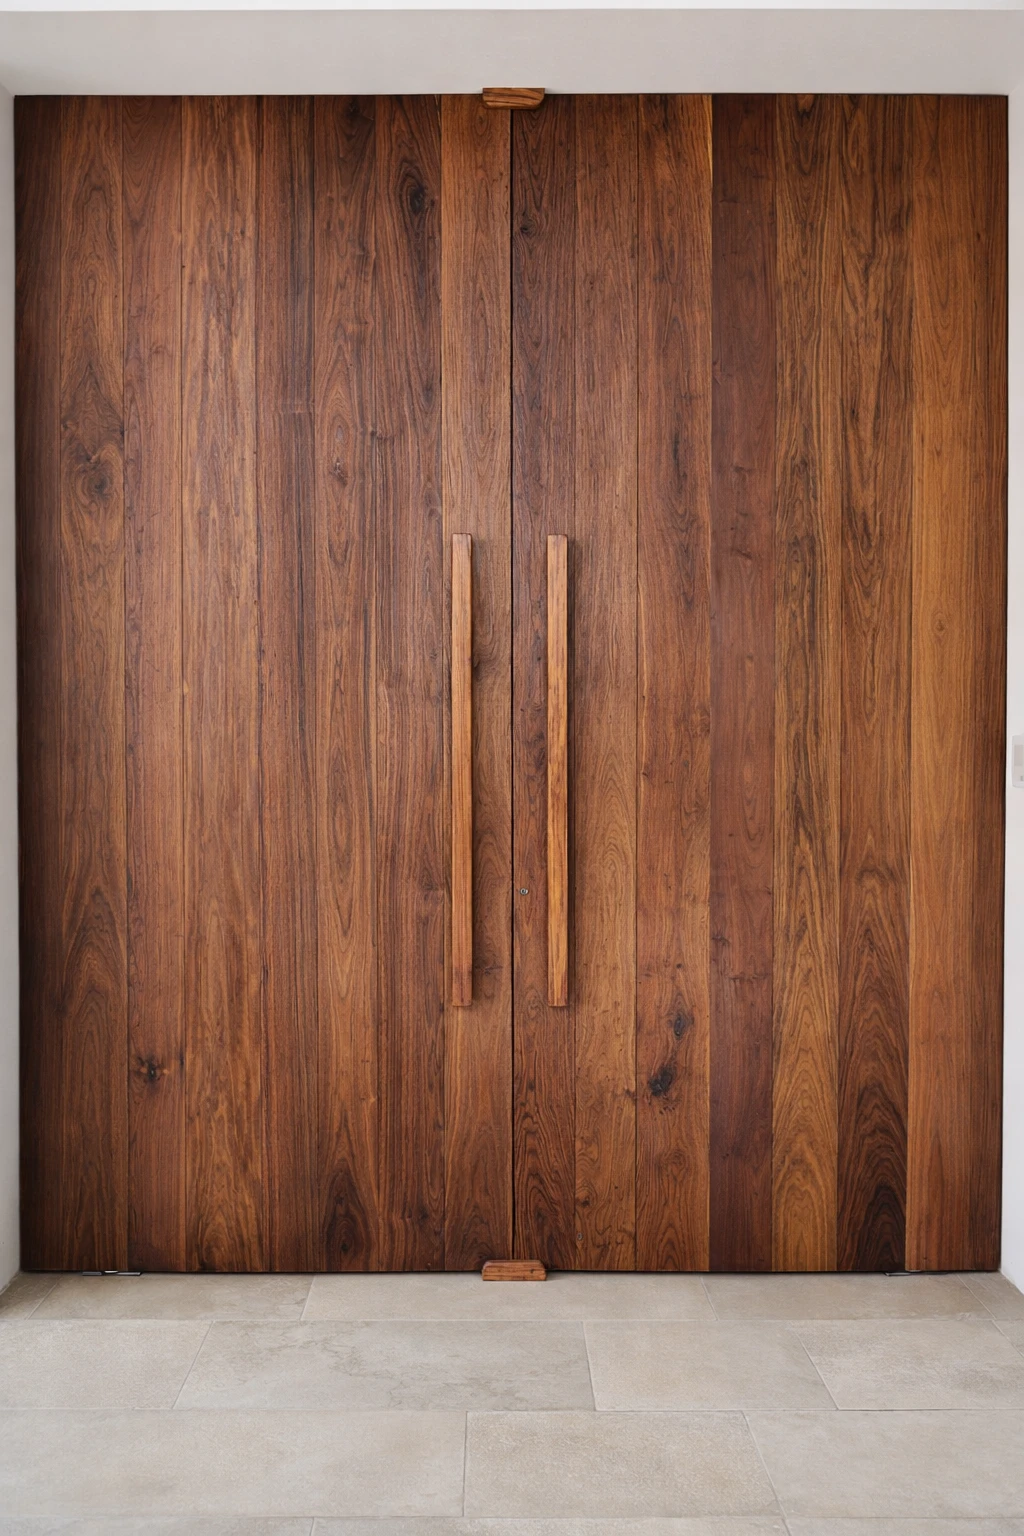
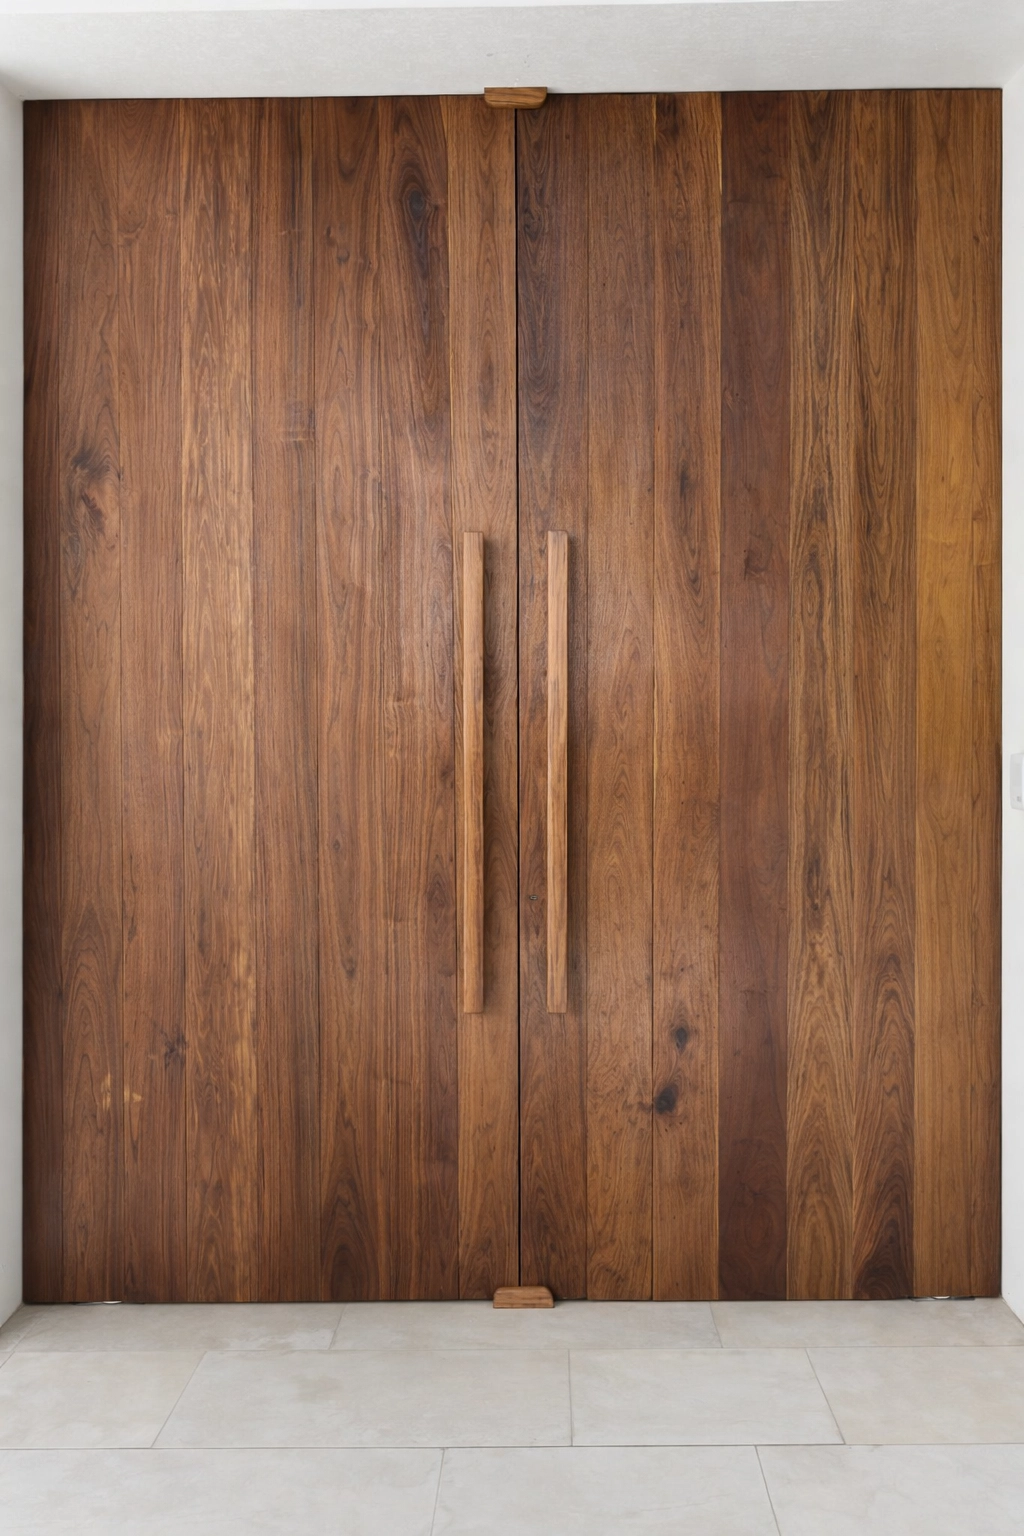
Adjunté imágenes restantes galeria

diff --git a/src/App.jsx b/src/App.jsx
@@ -87,7 +87,11 @@ export default function App() {
       images: [
         "/images/projects/cocinas/cocina1.webp",
         "/images/projects/cocinas/cocina2.webp",
-        "/images/placeholder.jpg",
+        "/images/projects/cocinas/cocina3.webp",
+        "/images/projects/cocinas/cocina4.webp",
+        "/images/projects/cocinas/cocina5.webp",
+        "/images/projects/cocinas/cocina6.webp",
+        "/images/projects/cocinas/cocina7.webp",
       ],
     },
 
@@ -97,8 +101,8 @@ export default function App() {
         "Estructuras exteriores modernas combinando diseño y resistencia.",
       images: [
         "/images/projects/pergolas/pergola1.webp",
-        "/images/placeholder.jpg",
-        "/images/placeholder.jpg",
+        "/images/projects/pergolas/pergola2.webp",
+        "/images/projects/pergolas/pergola3.webp",
       ],
     },
 
@@ -109,7 +113,7 @@ export default function App() {
       images: [
         "/images/projects/puertas/puerta1.webp",
         "/images/projects/puertas/puerta2.webp",
-        "/images/placeholder.jpg",
+        "/images/projects/puertas/puerta3.webp",
       ],
     },
 
@@ -119,8 +123,7 @@ export default function App() {
         "Diseños modernos en herrería y carpintería para espacios únicos.",
       images: [
         "/images/projects/parrillas/parrilla1.webp",
-        "/images/placeholder.jpg",
-        "/images/placeholder.jpg",
+        "/images/projects/parrillas/parrilla2.webp",
       ],
     },
 
@@ -130,8 +133,10 @@ export default function App() {
         "Proyectos personalizados realizados según las necesidades de cada cliente.",
       images: [
         "/images/projects/otros/mesas1.webp",
-        "/images/placeholder.jpg",
-        "/images/placeholder.jpg",
+        "/images/projects/otros/escalera.webp",
+        "/images/projects/otros/escalera1.webp",
+        "/images/projects/otros/divisor.webp",
+        "/images/projects/otros/escritorio.webp",
       ],
     },
   };
@@ -693,7 +698,7 @@ export default function App() {
                     }`}
                   >
                     <p className="text-zinc-200 leading-relaxed">
-                      Combinación de metal y vidrio para ambientes modernos y elegantes.
+                      Frentes de parrilla diseñados a medida, combinando funcionalidad, resistencia y estética moderna.
                     </p>
                   </div>
 
